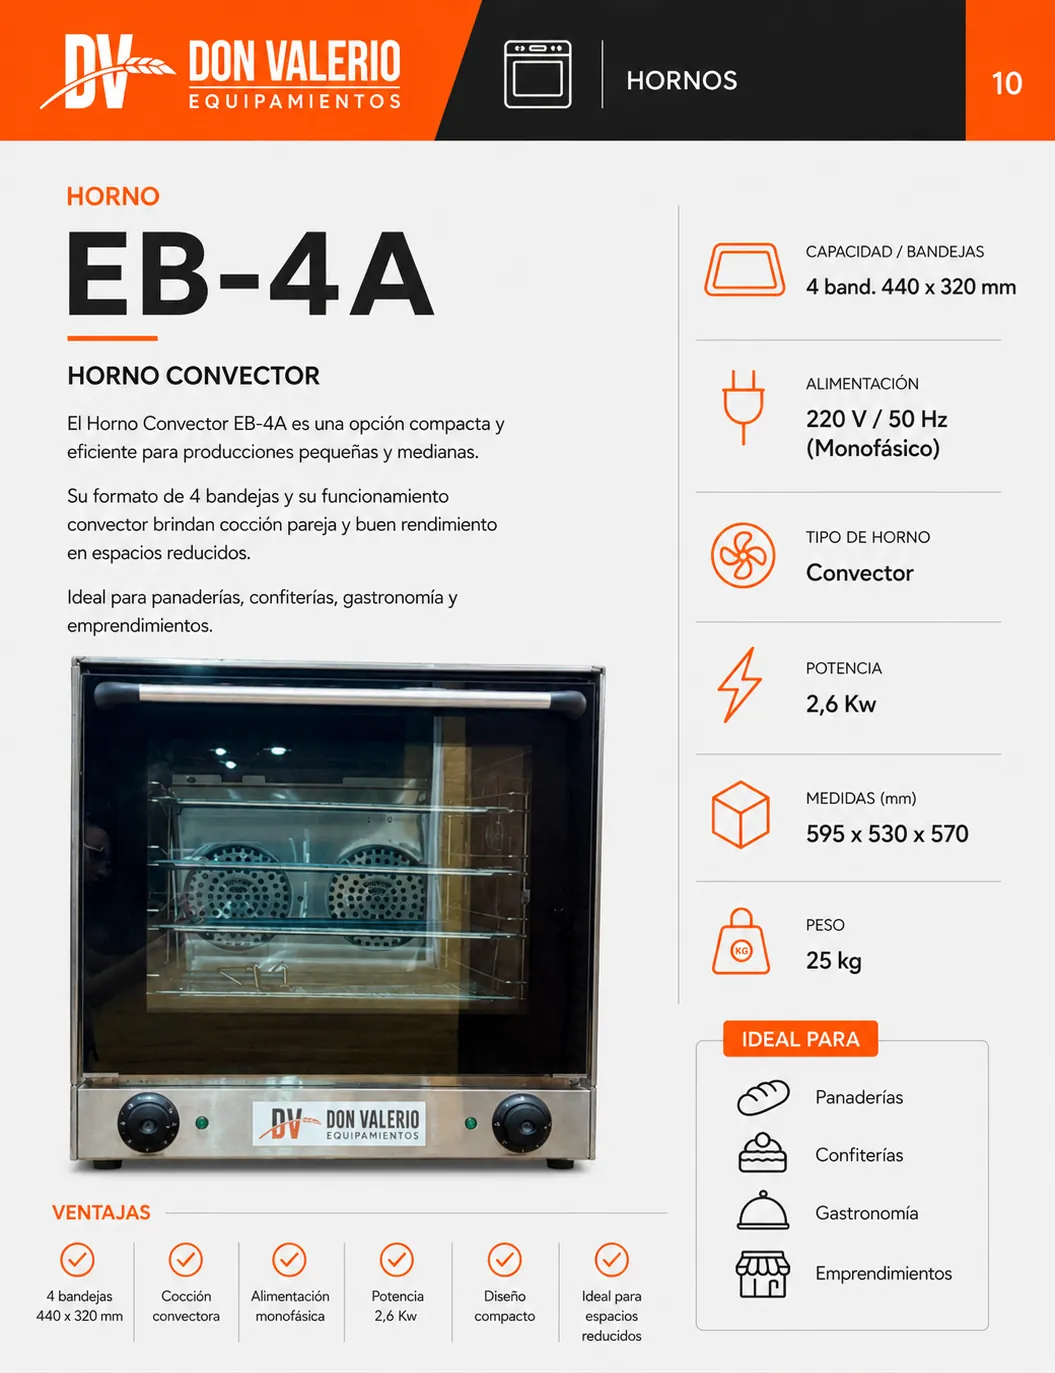
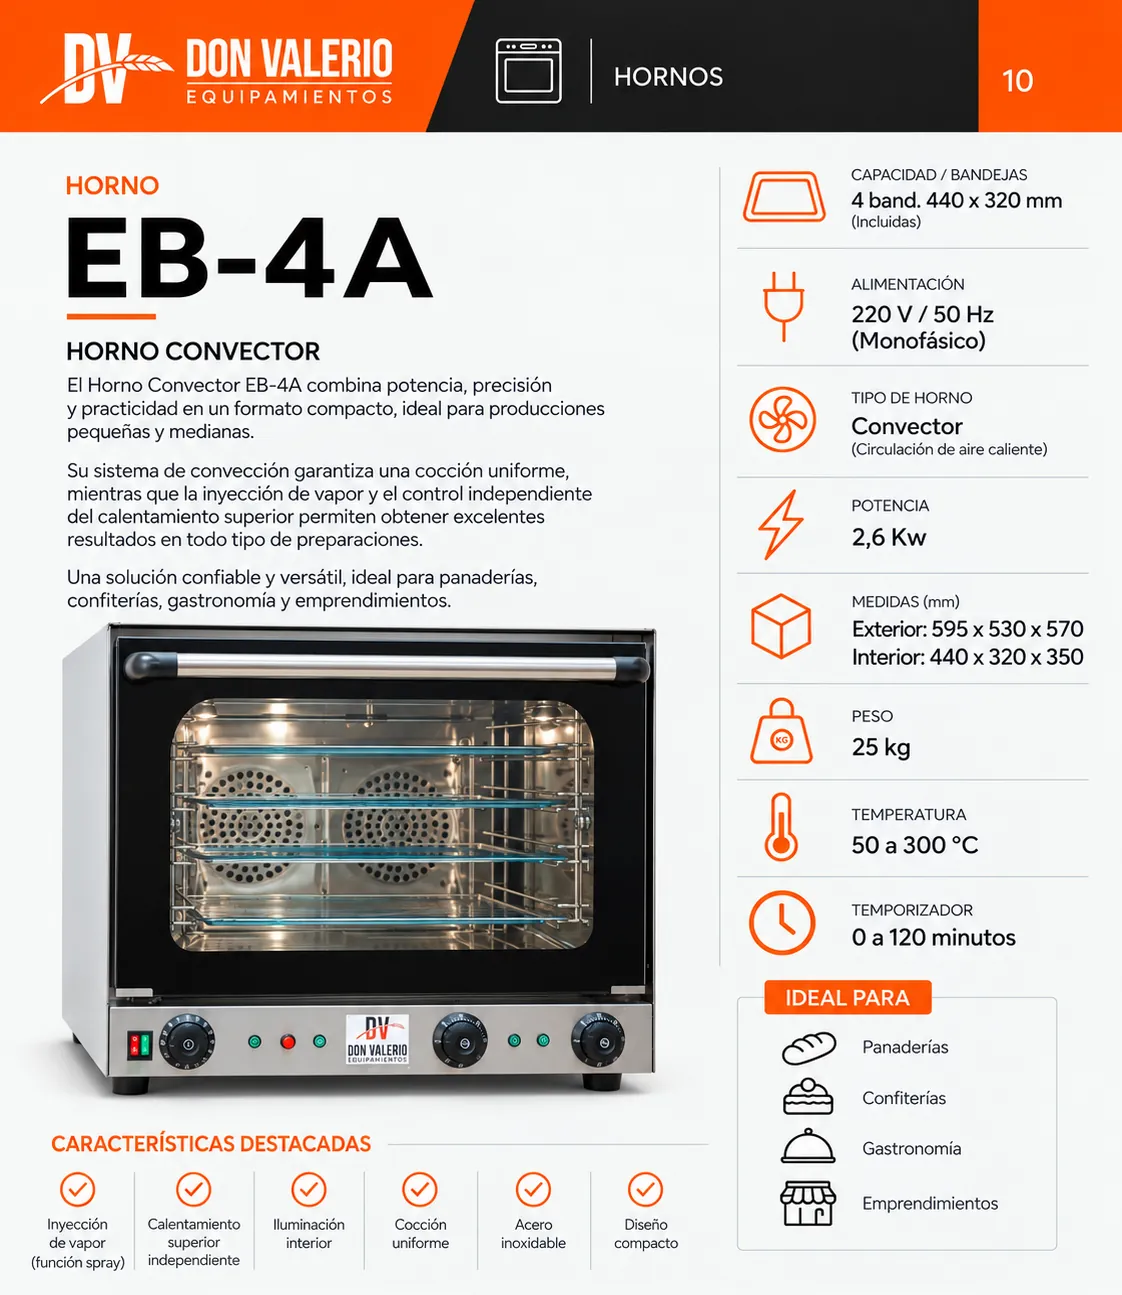
fotos nuevas EB-4A y EB-8A

diff --git a/src/data.js b/src/data.js
@@ -157,15 +157,15 @@ const PRODUCTS = [
   {
     sku: 'EB-4A', slug: 'horno-convector-eb-4a', category: 'hornos', img: 'EB-4A',
     name: 'Horno Convector EB-4A', cap: '4 band. 440 × 320 mm',
-    desc: 'Horno convector eléctrico de 4 bandejas de gastronomía. Circulación de aire forzada para cocción pareja. Ideal para panaderías, rotiserías y cafeterías.',
-    specs: [['Bandejas','4 de 440 × 320 mm'],['Tipo','Convector'],['Potencia','2,6 KW'],['Alimentación','220V / 50Hz monofásico'],['Dimensiones','595 × 530 × 570 mm'],['Peso','25 kg']],
+    desc: 'Horno Convector EB-4A: combina potencia, precisión y practicidad en un formato compacto, ideal para producciones pequeñas y medianas. Su sistema de convección garantiza una cocción uniforme, mientras que la inyección de vapor y el control independiente del calentamiento superior permiten obtener excelentes resultados en todo tipo de preparaciones. Solución confiable y versátil para panaderías, confiterías, gastronomía y emprendimientos.',
+    specs: [['Capacidad / Bandejas','4 de 440 × 320 mm (incluidas)'],['Tipo de horno','Convector (circulación de aire caliente)'],['Función spray','Sí, inyección de vapor'],['Potencia','2,6 KW'],['Alimentación','220V / 50Hz monofásico'],['Medidas exteriores','595 × 530 × 570 mm'],['Medidas interiores','440 × 320 × 350 mm'],['Peso','25 kg'],['Temperatura','50 a 300 °C'],['Temporizador','0 a 120 minutos']],
     stock: 6,
   },
   {
     sku: 'EB-8A', slug: 'horno-convector-eb-8a', category: 'hornos', img: 'EB-8A',
-    name: 'Horno Convector EB-8A', cap: '4 band. 600 × 400 mm',
-    desc: 'Horno convector eléctrico con capacidad para 4 bandejas de 600 × 400 mm. Solución práctica y eficiente para panaderías, pastelerías y emprendimientos gastronómicos. Frente vidriado, controles simples e ideal para producción diaria.',
-    specs: [['Bandejas','4 de 600 × 400 mm'],['Potencia','6,4 KW'],['Alimentación','220V / 50Hz monofásico'],['Dimensiones','830 × 770 × 570 mm'],['Peso','40 kg']],
+    name: 'Horno Convector EB-8A', cap: '5 band. 600 × 400 mm',
+    desc: 'Horno convector EB-8A: solución práctica, versátil y eficiente para panaderías, pastelerías, gastronomía y emprendimientos. Su sistema de convección con circulación de aire caliente brinda una cocción uniforme, mientras que la función spray y el calentamiento superior independiente aportan mayor control en cada preparación. Su capacidad para 5 bandejas de 600 × 400 mm, junto con su rango de 50 a 300 °C y temporizador de hasta 120 minutos, lo convierten en una excelente opción para producciones diarias.',
+    specs: [['Capacidad / Bandejas','5 de 600 × 400 mm'],['Tipo de horno','Convector (circulación de aire caliente)'],['Función spray','Sí, inyección de vapor'],['Potencia','3 + 5 kW'],['Alimentación','220V / 50Hz monofásico'],['Medidas exteriores','835 × 775 × 575 mm'],['Medidas interiores','680 × 540 × 482 mm'],['Peso','40 kg'],['Temperatura','50 a 300 °C'],['Temporizador','0 a 120 minutos']],
     stock: 4,
   },
   {
